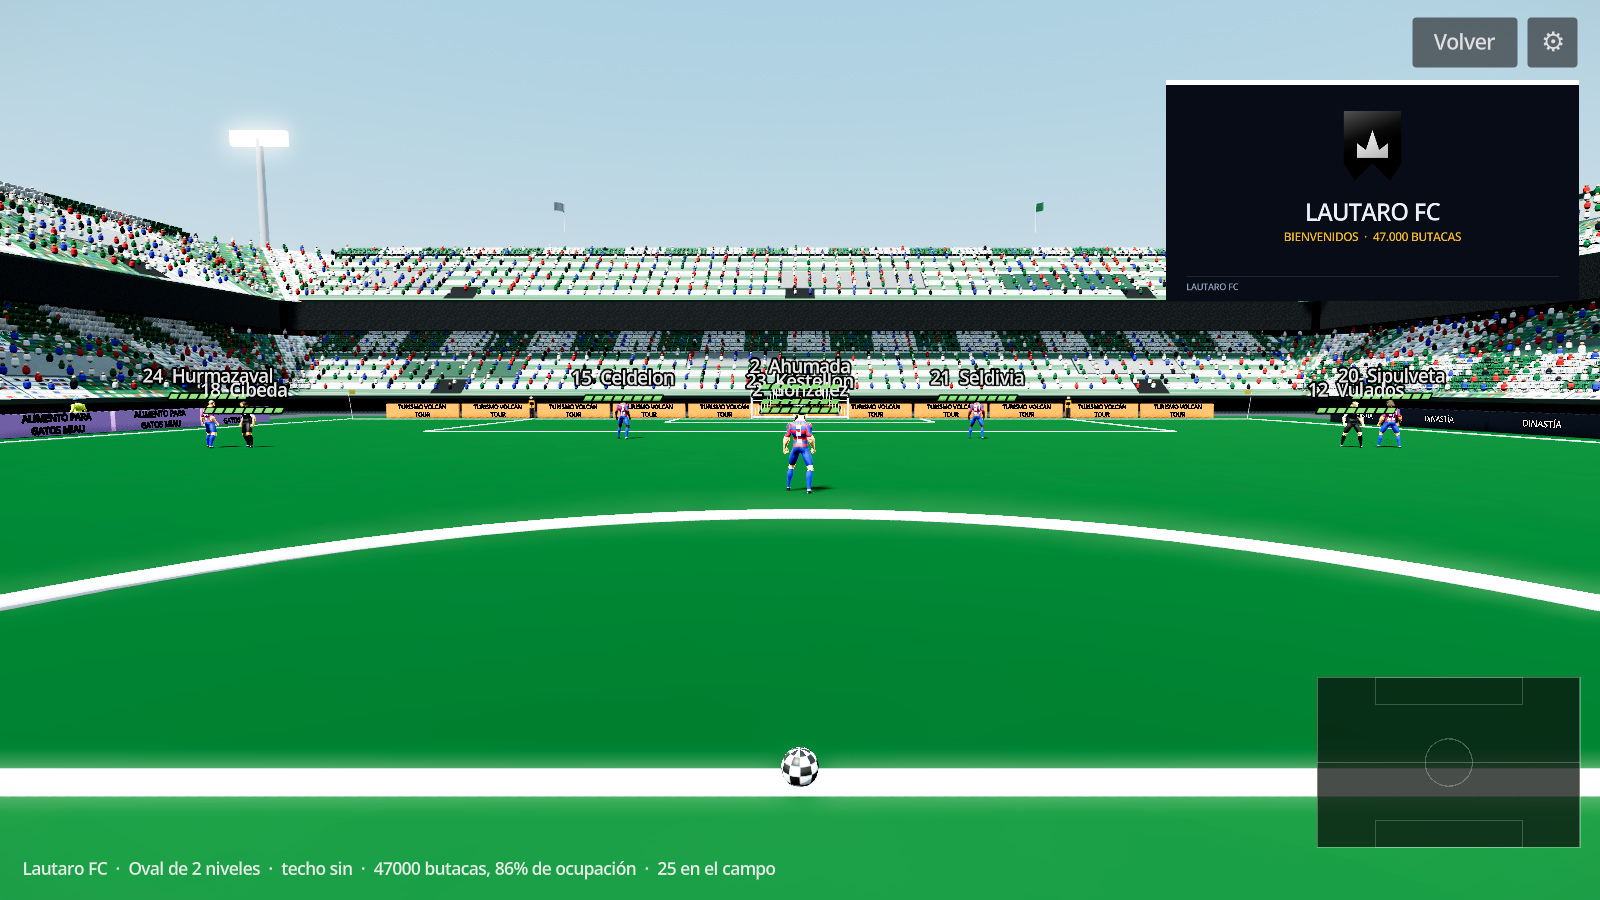
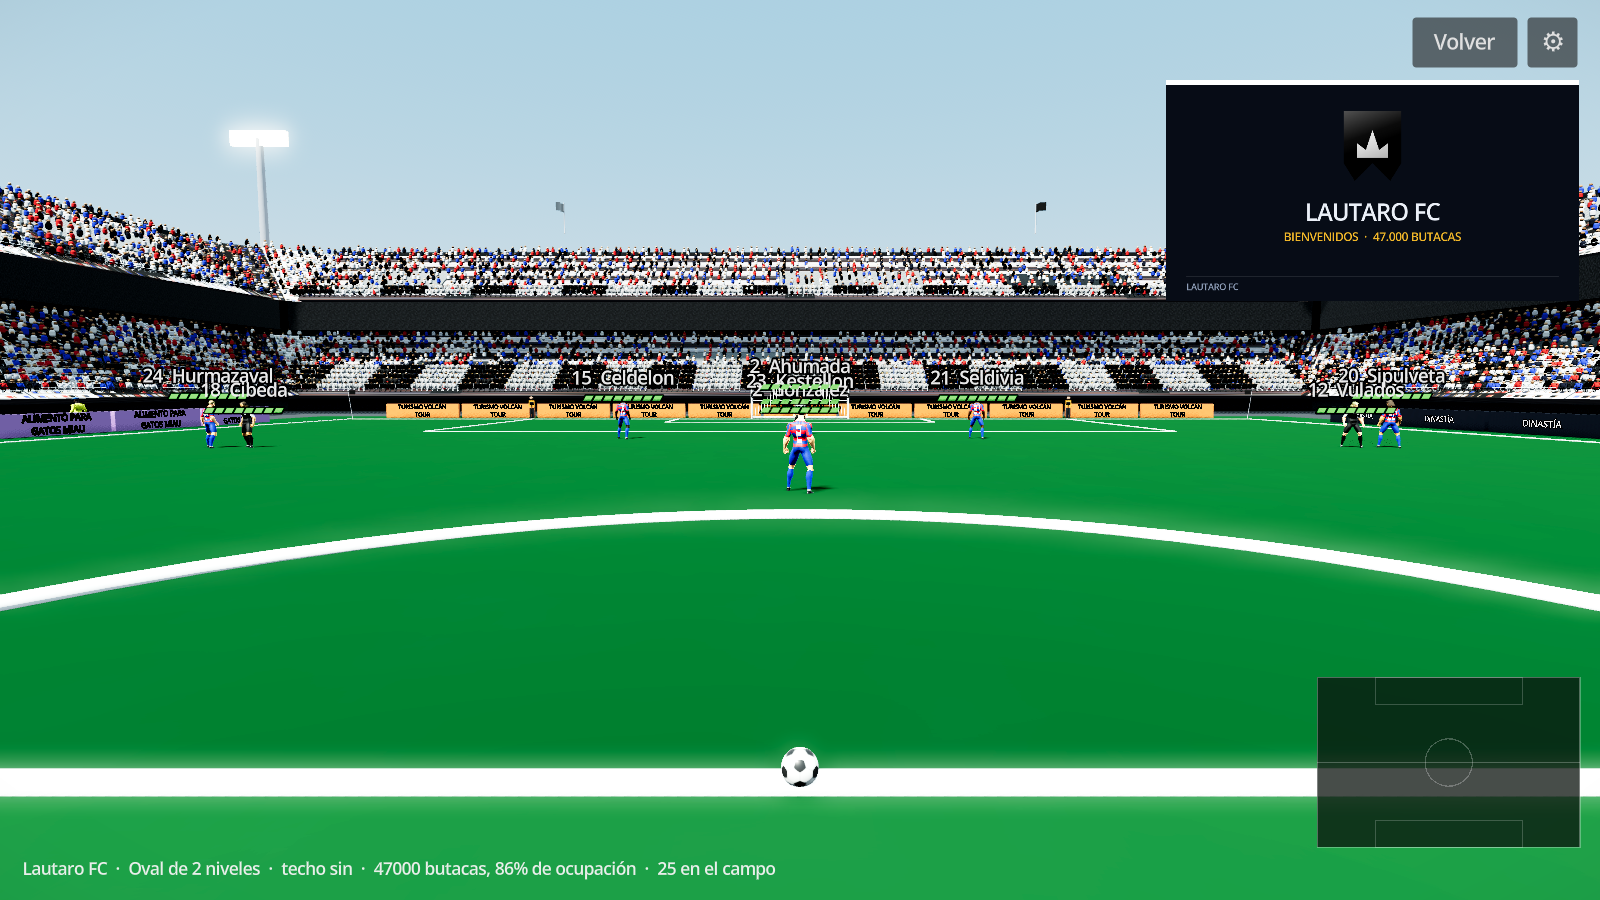
Project memory (CLAUDE.md) with the user's rules and latest requests; updated stadium captures
Claude-Session: https://claude.ai/code/session_019vFD1r5h8o4qeHRJxKM5d9

Changed region(s): [[0.0, 0.1867, 1.0, 0.4667], [0.9688, 0.1867, 1.0, 0.28], [0.4688, 0.84, 0.5312, 0.8711]]

diff --git a/CLAUDE.md b/CLAUDE.md
@@ -1,0 +1,49 @@
+# Memoria del proyecto Dinastía (para Claude)
+
+Se lee al empezar cada sesión. Actualizar cuando el usuario pida algo nuevo.
+
+## Reglas fijas
+- Responder en español. Trabajar solo en la rama asignada; nada de PR salvo que se pida.
+- Commit y push tras cada bloque. Sin identificadores de modelo en commits ni archivos.
+- La contraseña del keystore NUNCA en el repo. Sin subidas a LFS.
+- Datos reales solo en `pack_real.json`; el resto con nombres ficticios. Política ficticia.
+  No atribuir religión ni romances a jugadores reales.
+- Keystore, licencias, FPS, música y builds los maneja el usuario/dueño.
+- «La cara 2D moldeada sobre el modelo 3D»: NO tocar sin permiso explícito.
+- «Ejecuta las tareas en primer plano»: comandos cortos y en pasos separados, no
+  cadenas largas en segundo plano.
+- El banco `pruebas/banco.gd` debe terminar en «FIN. 0 fallos» antes de subir.
+
+## Lo que pidió en sus últimos mensajes (29-9-2026)
+1. Terminar el plan en orden: traducción EN/PT (hecha) → más idiomas → limpieza →
+   comparar con el informe (meta: nota ≥ 70) → auditoría → **vídeo promo**.
+2. Vídeo promo: jugando de verdad, largo y detallado, mostrando cada función, y
+   **dejarlo en el chat**. Es lo último antes del repaso.
+3. Después del vídeo, **repaso real**: revisar todo el chat, la memoria, la carpeta
+   «instruciones profundas», los informes, los vídeos comparativos y el LEEME;
+   comparar uno a uno qué está, qué no y qué mejorar; armar un **MEGAPLAN** con lo
+   faltante, mejoras, caza de bugs, originalidad y jugabilidad.
+4. Partido jugable (Carrera de Jugador): **reutilizar materiales y contenido del modo
+   entrenador**. El público, las bandejas (gradas) y los camarógrafos se veían
+   horribles → corregido el 29-9 (grada con filas del lado correcto, hinchas de
+   detalle, personal real, banca, árbitros, cámara que no se mete en la grada).
+   Seguir puliendo si se ve algo feo.
+5. Guardar en memoria lo que pide (este archivo).
+
+## Pedidos anteriores ya hechos (no rehacer)
+- Panel lateral izquierdo con 9 menús a pantalla completa (historia, gente, mi
+  carrera, operaciones, mi vida, editar, ajustes, ciudad 3D, estadio 3D), con
+  fondos animados únicos. La portada de fichas grandes en 3 columnas hacia abajo
+  es «la definitiva». Sin riel horizontal y **sin la ficha del jugador** en esos
+  menús. El ☰ no debe chocar con ellos.
+- El menú central cambia de estética cada 10 minutos de juego.
+- El panel de objetivos de la directiva se puede mover y lo muestra en el borde.
+- Carrera de Jugador v1: eventos únicos, control real (mando y teclado), IA de NPC
+  basada en las jugadas prehechas, el jugador tira córners, penales y faltas, y
+  tiene una estética propia. «Ten muchísimo cuidado con ese modo».
+
+## Pendientes
+- Más idiomas (hay columnas fr/it/de/ca en TABLA; completar diccionarios).
+- Carrera de Jugador: fuera de juego, más eventos, cambios, selección jugable.
+- Esperando al usuario: túnel, cara 2D→3D (necesita permiso).
+- Mapa de metas: `dinastia-godot/MAPA_DE_METAS.md`. Informe base: INFORME_DINASTIA.md.
